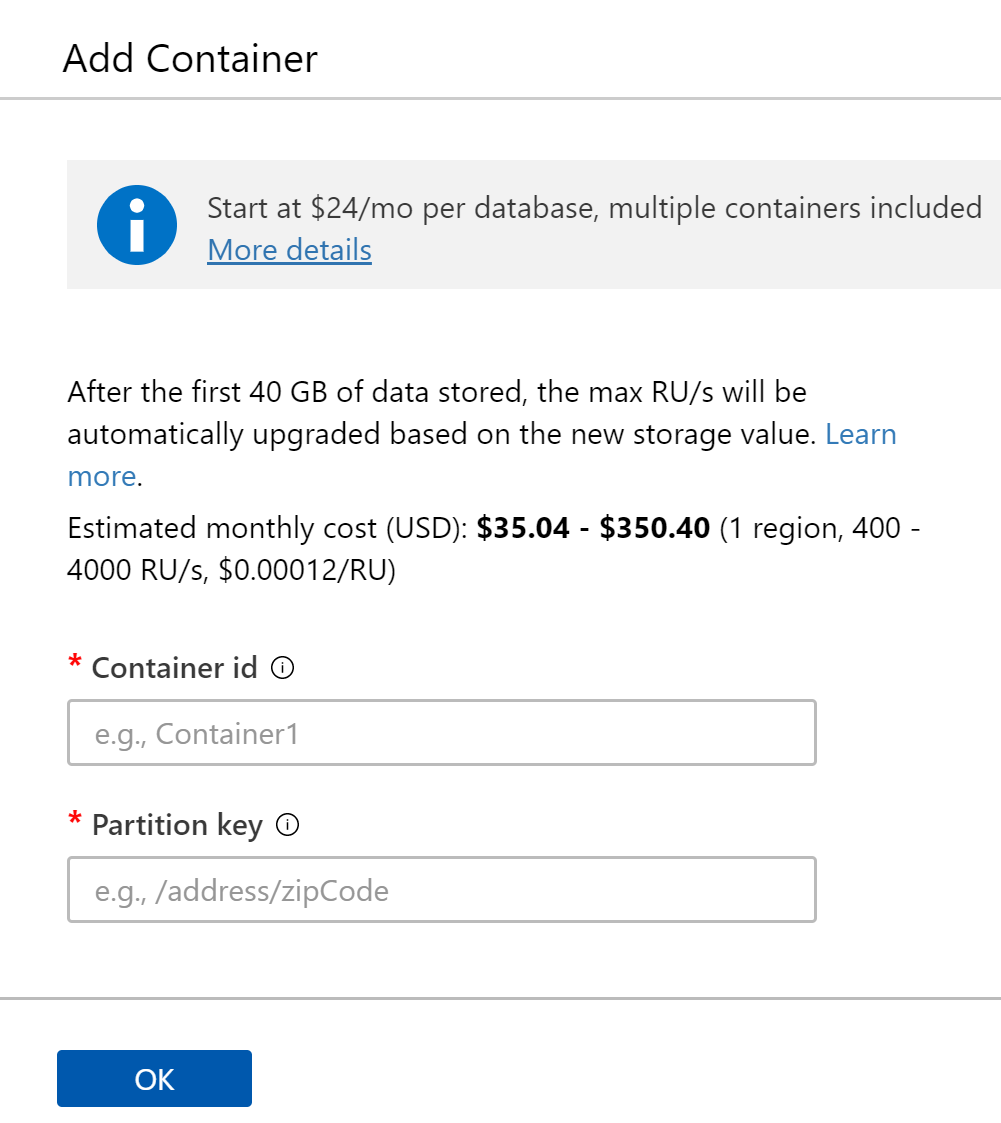
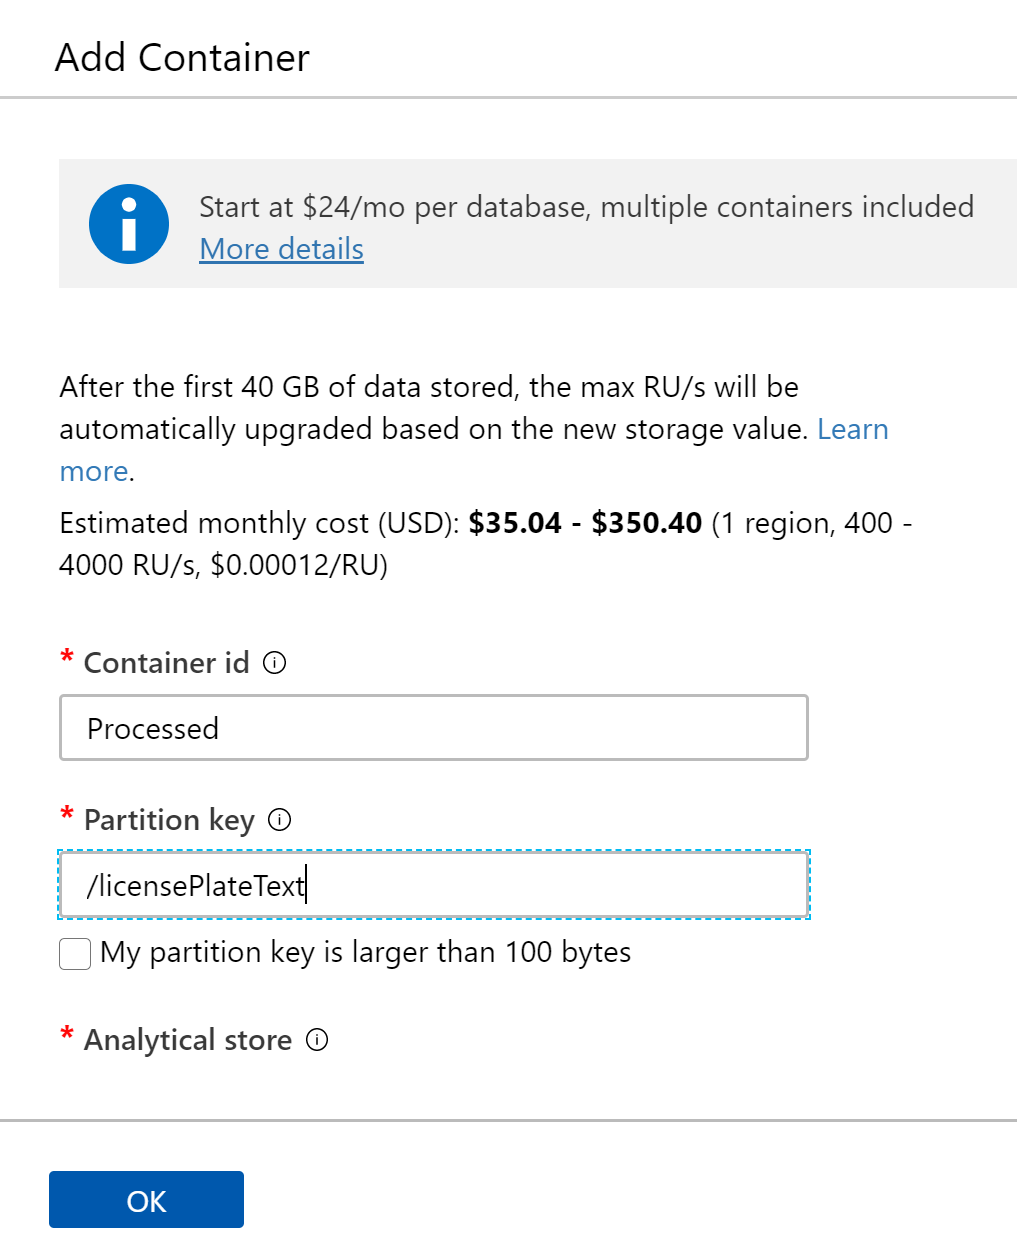
Fixed the image display issue

diff --git a/month4/labs/lab_serverless/README.md b/month4/labs/lab_serverless/README.md
@@ -356,13 +356,13 @@ In this exercise, you will provision a blob storage account using the Hot tier, 
 
     b. Leave **Provision database throughput** unchecked.
 
-    c. Enter **Processed** for the **Container id**.
-
-    d. Partition key: **/licensePlateText**
-
-    e. Throughput: Select AutoPilot and enter **4000**
+    c. Throughput: Select AutoPilot and enter **4000**
 
     ![In the Add Create Database blade, fields are set to the previously defined values.](images/CosmosDB-Database-container-create01.PNG 'Add Database blade') 
+ 
+    d. Enter **Processed** for the **Container id**.
+
+    e. Partition key: **/licensePlateText**
     ![In the Add Container blade, fields are set to the previously defined values.](images/CosmosDB-Database-container-create02.PNG 'Add Container blade')
 
 8. Select **OK**.
